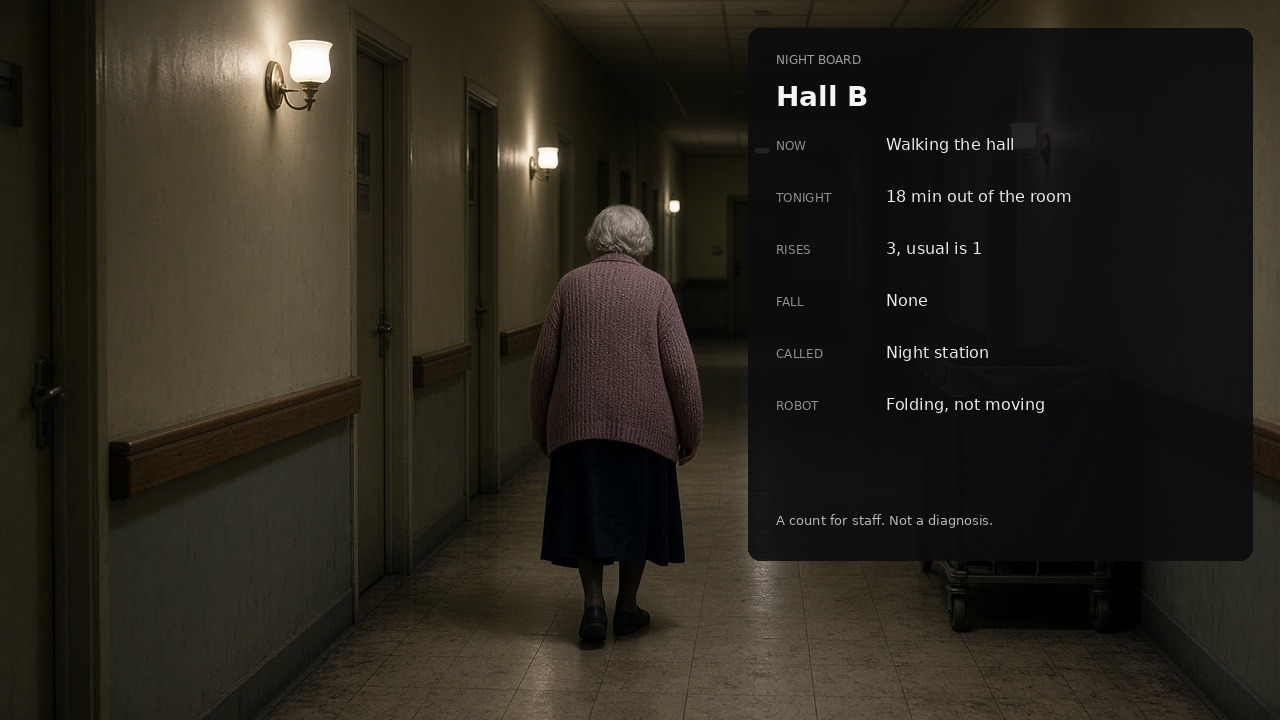
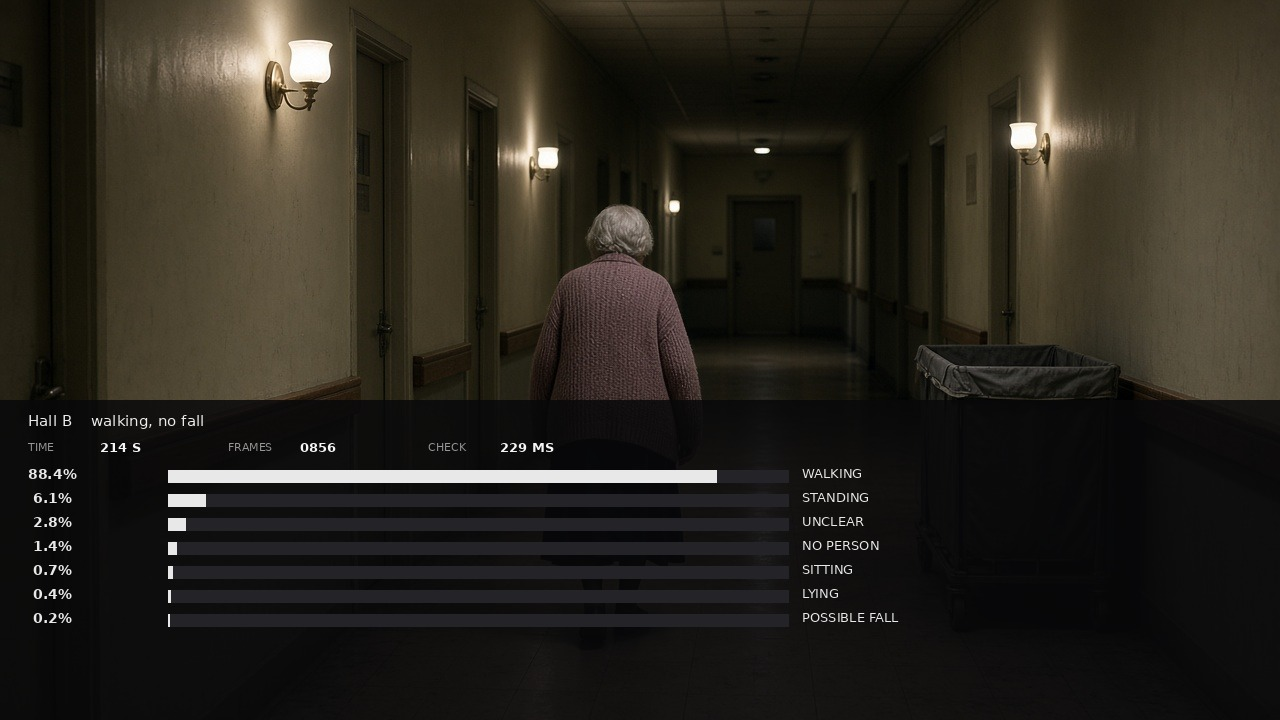
Use the same bars on the hall frame.

diff --git a/README.md b/README.md
@@ -26,9 +26,9 @@ A fast drop holds the red bar:
 
 ![Possible fall on the red hold](docs/room-floor.jpg)
 
-The night board is a count for staff. The robot keeps folding.
+Walking leads in the hall, with the same bars:
 
-![Night board in the hall](docs/hall-night.jpg)
+![Walking leads in the hall](docs/hall-night.jpg)
 
 ## Run
 
